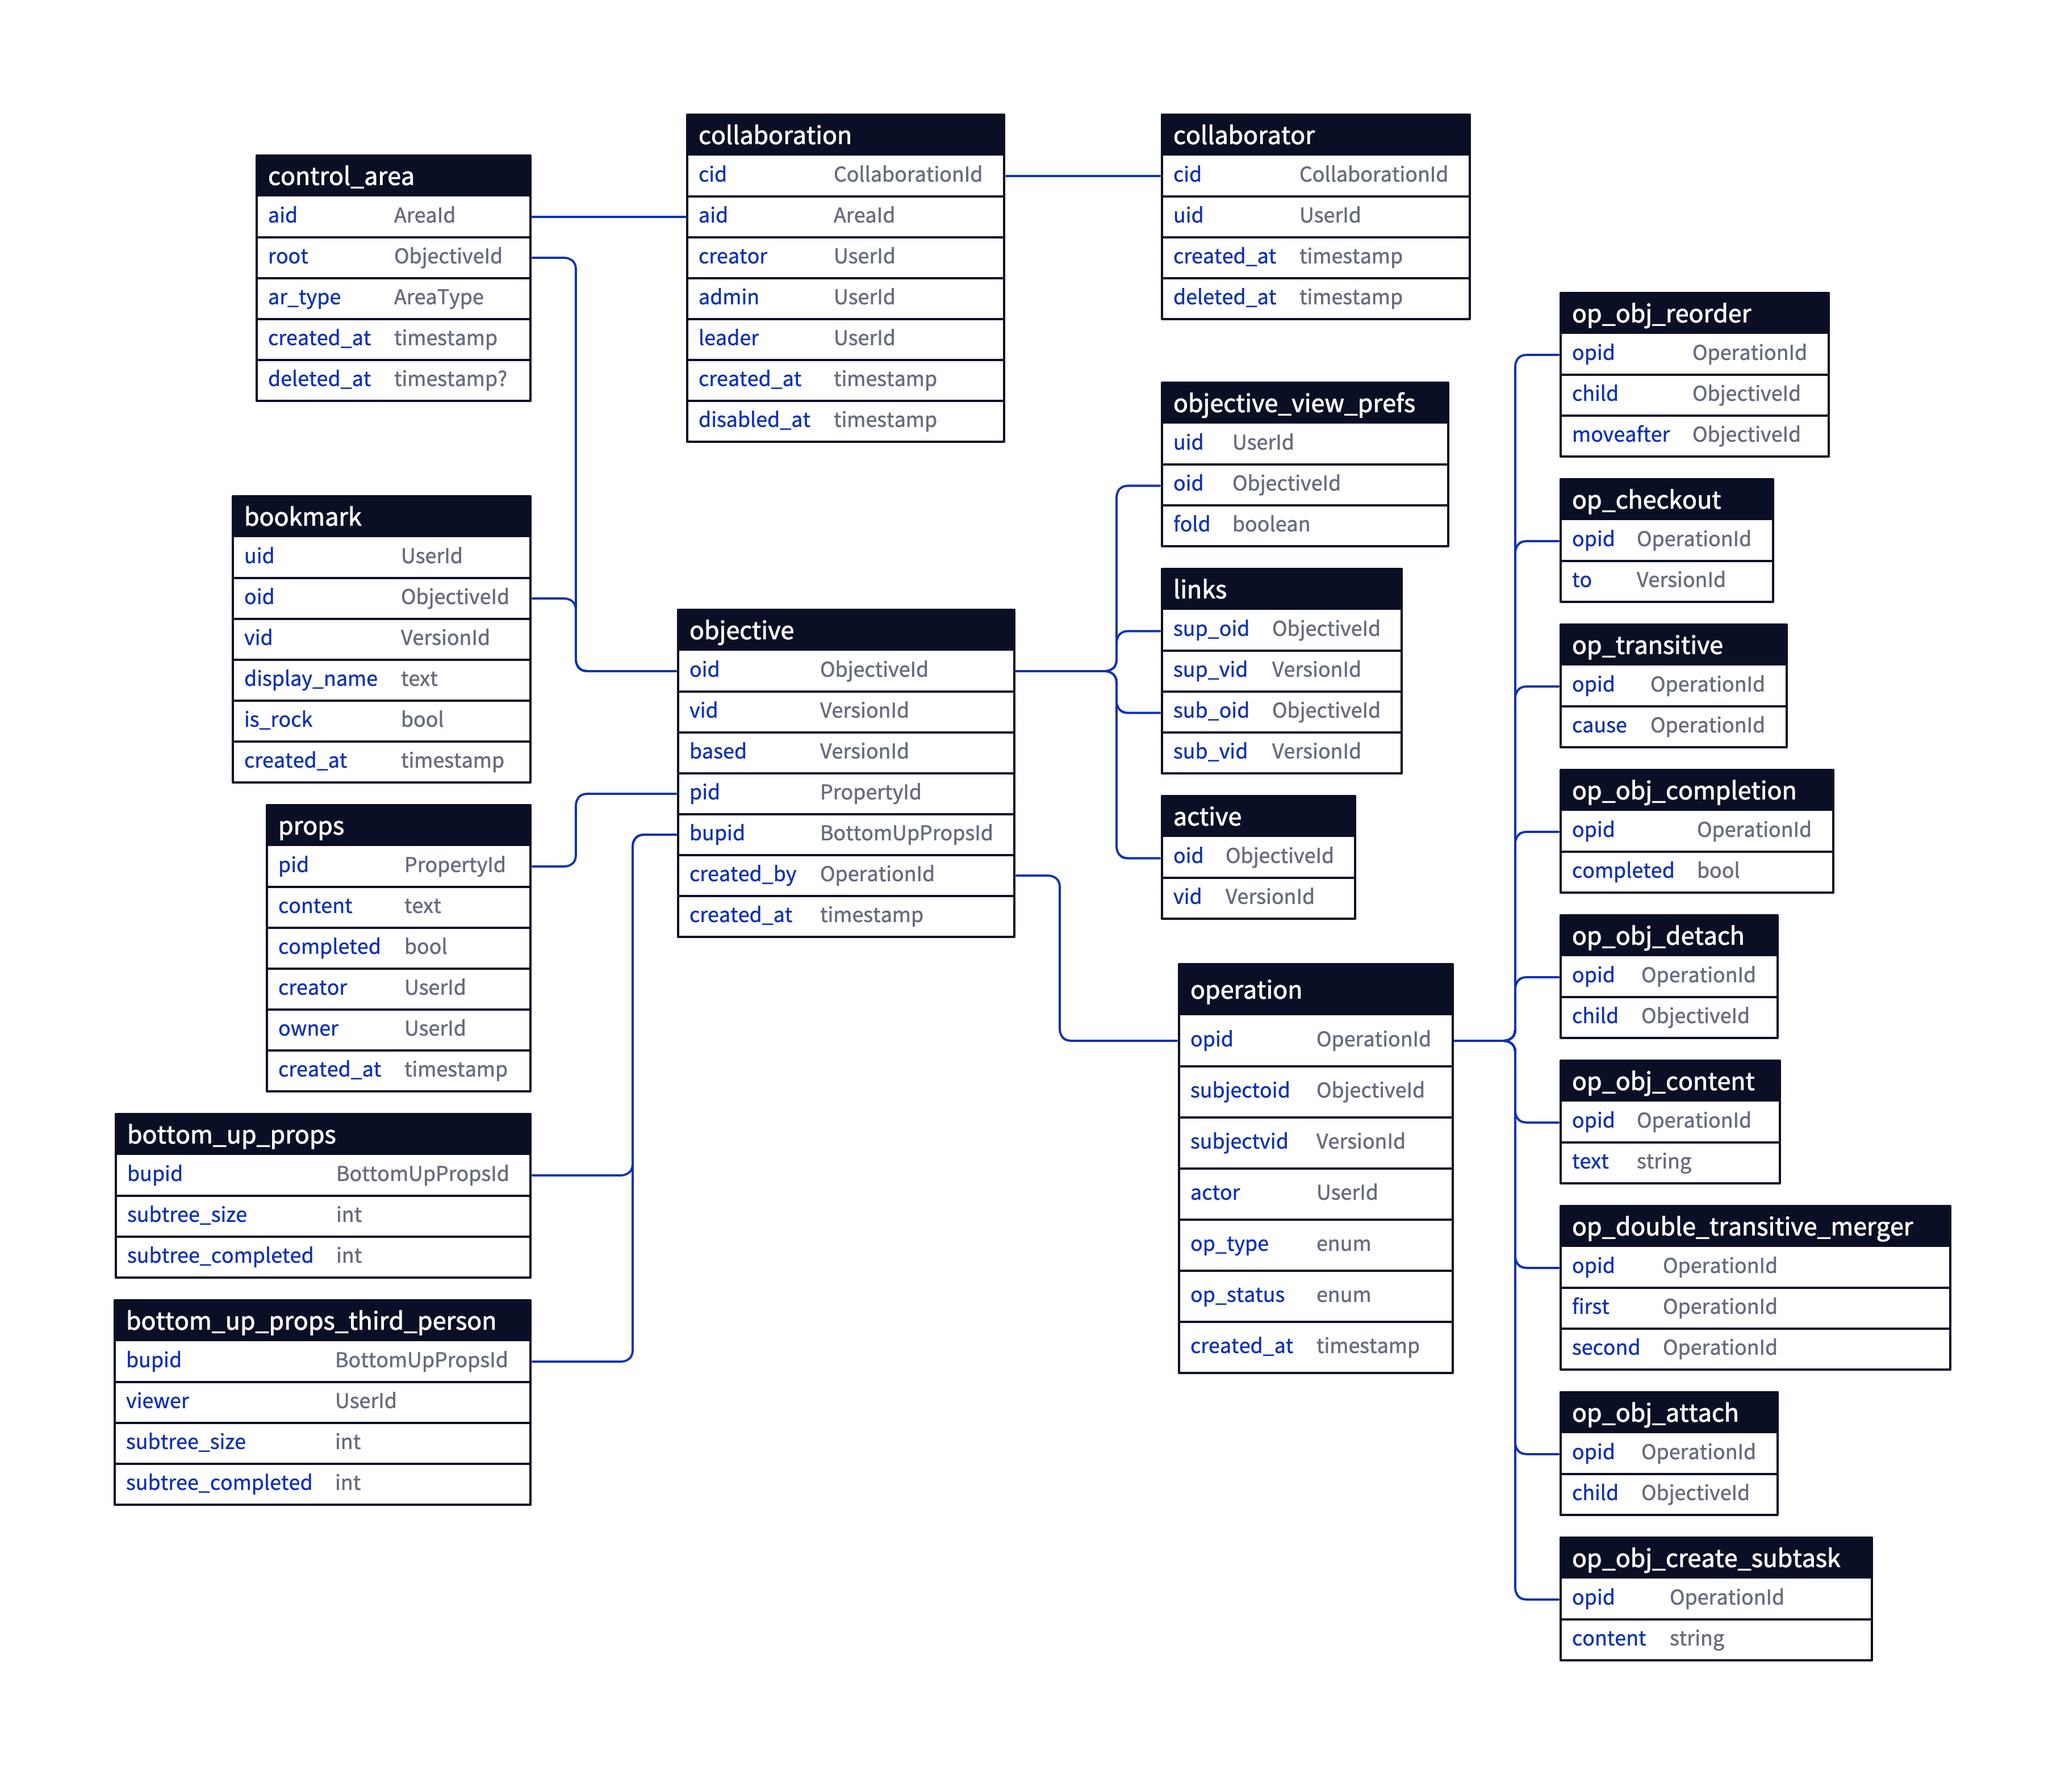
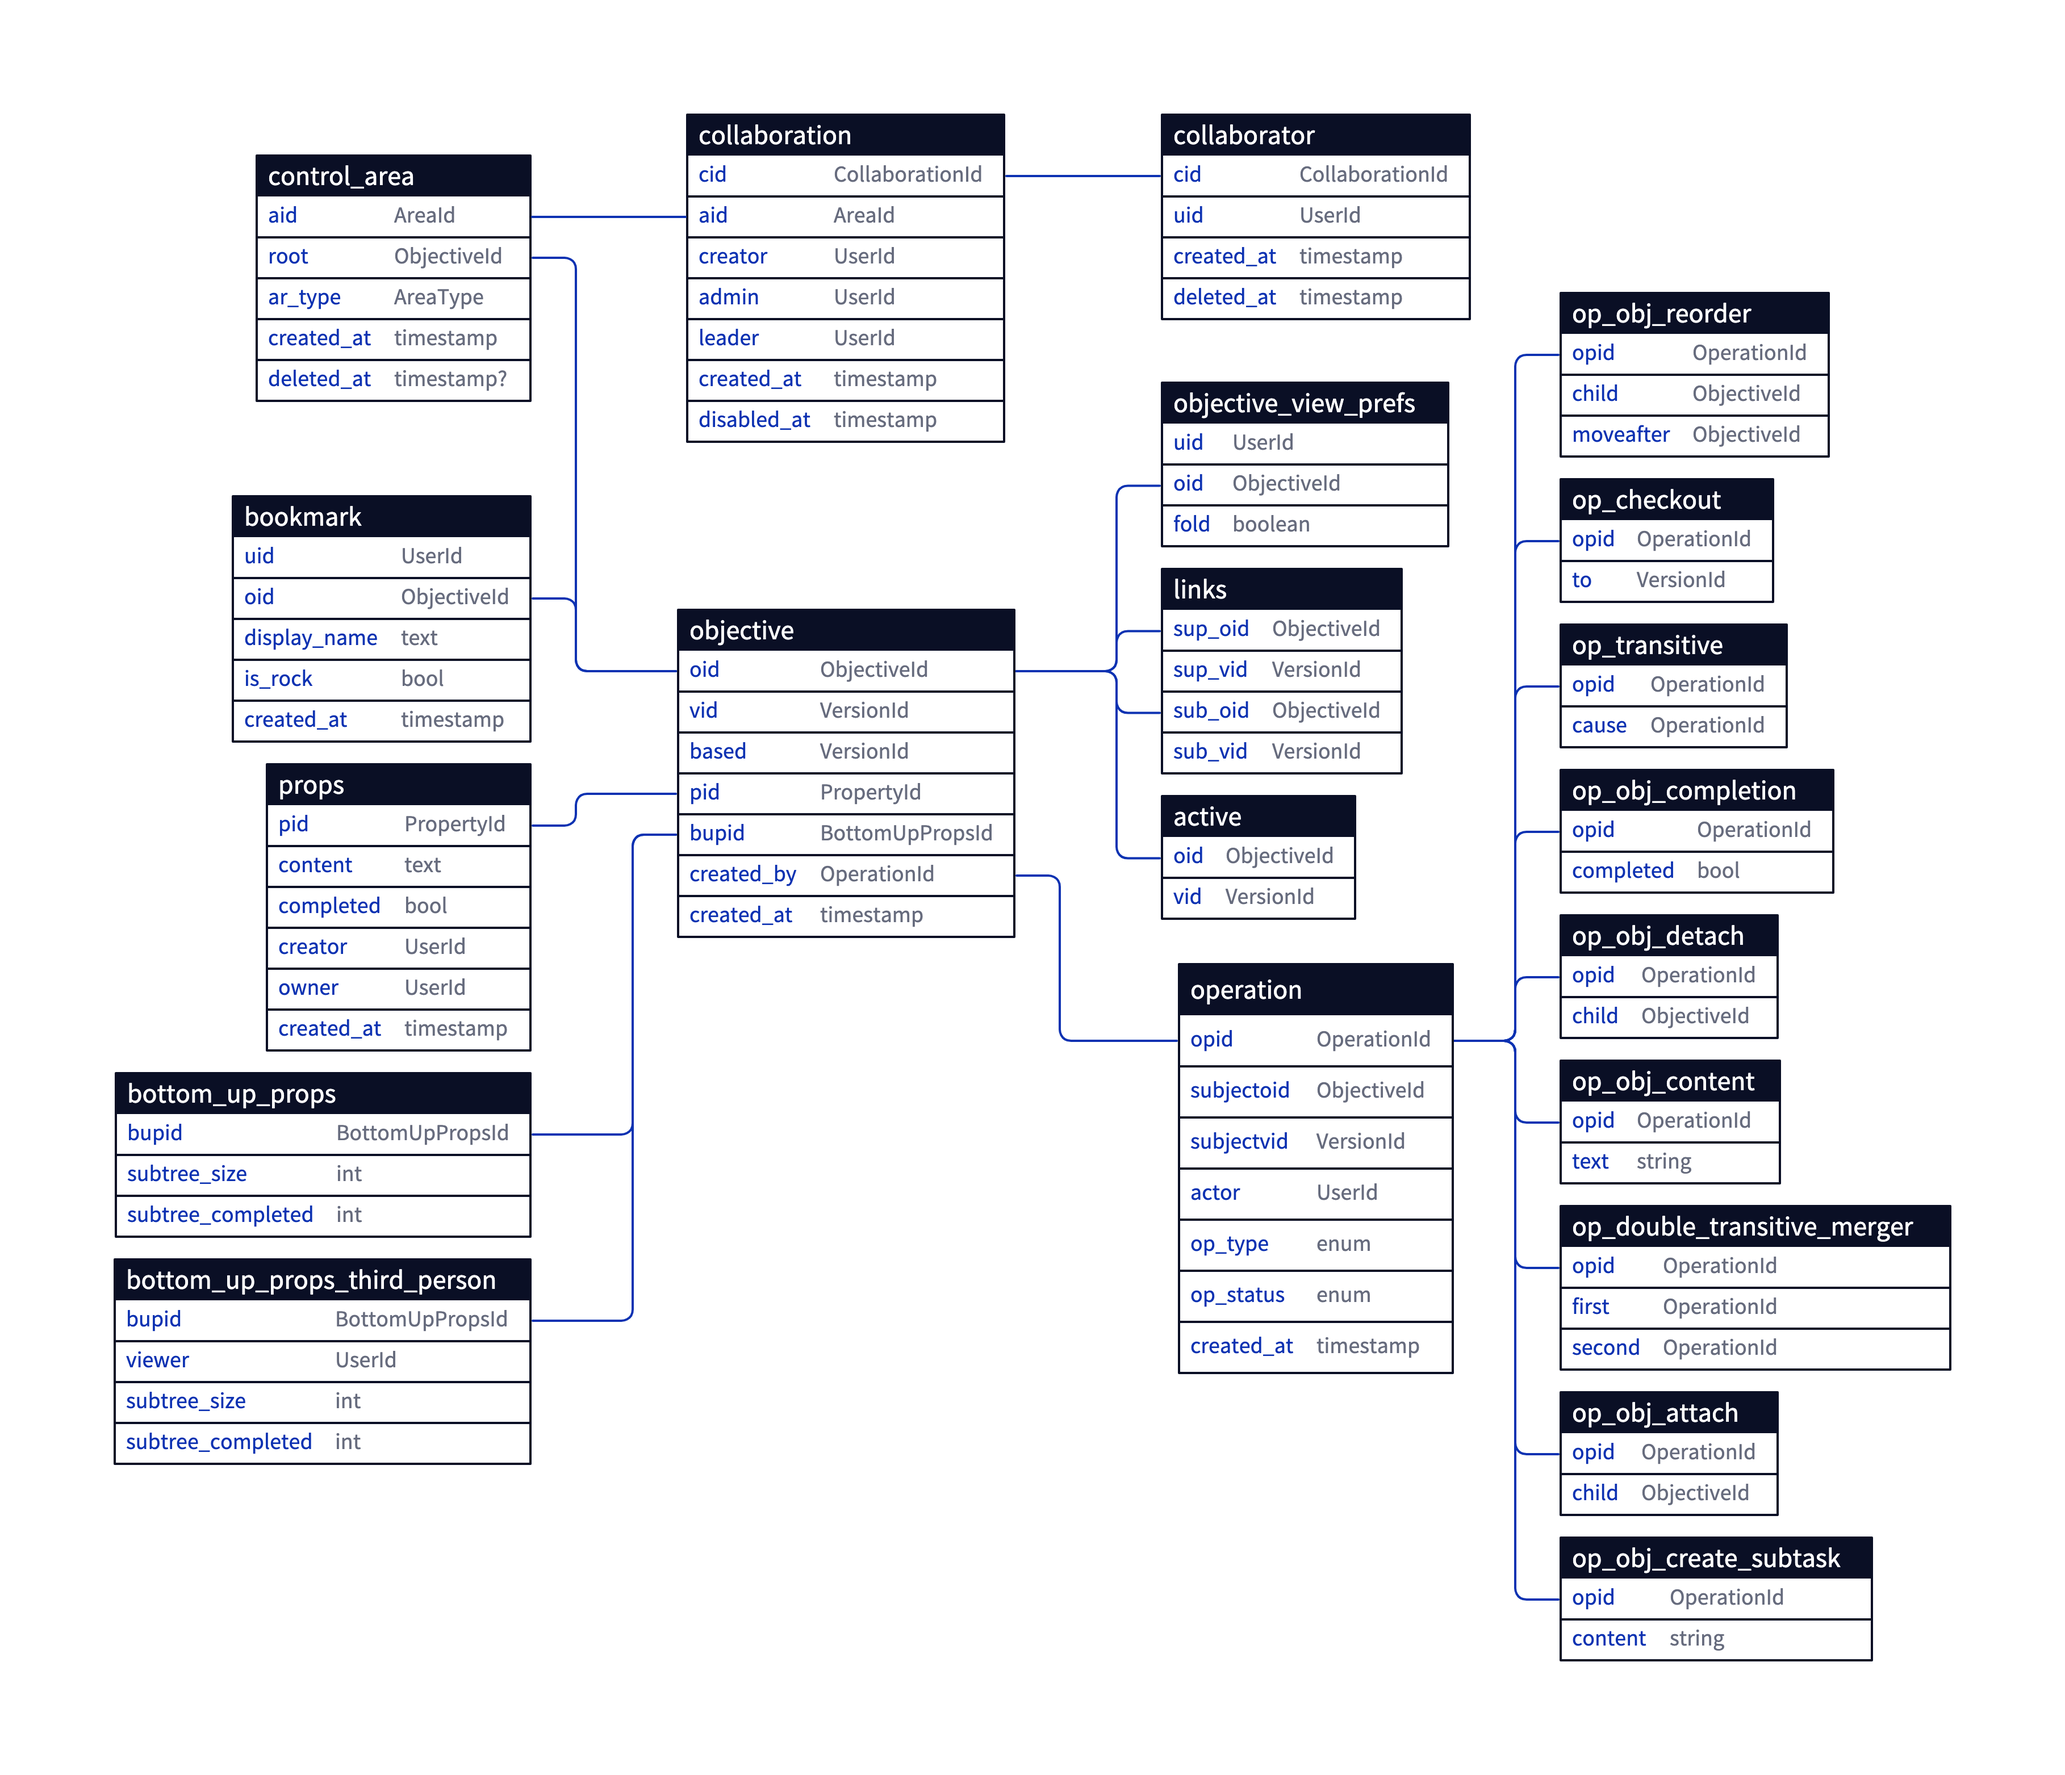
app/cmd/objectives: removes `vid` column from `bookmark` table to decouple logic of updating objectives from updating bookmark table

Changed region(s): [[0.0311, 0.3413, 0.2797, 0.8068], [0.0932, 0.8068, 0.1554, 0.8378]]

diff --git a/app/cmd/objectives/database/queries.bookmark.sql.sqlc.go b/app/cmd/objectives/database/queries.bookmark.sql.sqlc.go
@@ -12,16 +12,15 @@ import (
 )
 
 const insertBookmark = `-- name: InsertBookmark :one
-INSERT INTO "bookmark"("uid", "oid", "vid", "title", "is_rock")
-    VALUES ($1, $2, $3, $4, $5)
+INSERT INTO "bookmark"("uid", "oid", "title", "is_rock")
+    VALUES ($1, $2, $3, $4)
 RETURNING
-    bid, uid, oid, vid, title, is_rock, created_at
+    bid, uid, oid, title, is_rock, created_at
 `
 
 type InsertBookmarkParams struct {
 	Uid    columns.UserId
 	Oid    columns.ObjectiveId
-	Vid    columns.VersionId
 	Title  string
 	IsRock bool
 }
@@ -30,7 +29,6 @@ func (q *Queries) InsertBookmark(ctx context.Context, arg InsertBookmarkParams) 
 	row := q.db.QueryRow(ctx, insertBookmark,
 		arg.Uid,
 		arg.Oid,
-		arg.Vid,
 		arg.Title,
 		arg.IsRock,
 	)
@@ -39,7 +37,6 @@ func (q *Queries) InsertBookmark(ctx context.Context, arg InsertBookmarkParams) 
 		&i.Bid,
 		&i.Uid,
 		&i.Oid,
-		&i.Vid,
 		&i.Title,
 		&i.IsRock,
 		&i.CreatedAt,
@@ -49,7 +46,7 @@ func (q *Queries) InsertBookmark(ctx context.Context, arg InsertBookmarkParams) 
 
 const selectBookmarks = `-- name: SelectBookmarks :many
 SELECT
-    bid, uid, oid, vid, title, is_rock, created_at
+    bid, uid, oid, title, is_rock, created_at
 FROM
     "bookmark"
 WHERE
@@ -70,7 +67,6 @@ func (q *Queries) SelectBookmarks(ctx context.Context, uid columns.UserId) ([]Bo
 			&i.Bid,
 			&i.Uid,
 			&i.Oid,
-			&i.Vid,
 			&i.Title,
 			&i.IsRock,
 			&i.CreatedAt,

diff --git a/app/cmd/objectives/app/bookmarks.go b/app/cmd/objectives/app/bookmarks.go
@@ -19,7 +19,6 @@ func (a *App) AddBookmark(ctx context.Context, params AddBookmarkParams) error {
 	_, err := a.queries.InsertBookmark(ctx, database.InsertBookmarkParams{
 		Uid:    params.Actor,
 		Oid:    params.Subject.Oid,
-		Vid:    params.Subject.Vid,
 		Title:  params.BookmarkName,
 		IsRock: false,
 	})
@@ -46,7 +45,6 @@ func (a *App) ListBookmarks(ctx context.Context, params ListBookmarksParams) ([]
 			Bid:       b.Bid,
 			Title:     b.Title,
 			Oid:       b.Oid,
-			Vid:       b.Vid,
 			IsRock:    b.IsRock,
 			CreatedAt: b.CreatedAt.Time,
 		})

diff --git a/app/cmd/objectives/app/app_test.go b/app/cmd/objectives/app/app_test.go
@@ -52,12 +52,17 @@ func TestApp(t *testing.T) {
 		found := false
 		for _, b := range bs {
 			if b.IsRock {
-				rock = models.Ovid{b.Oid, b.Vid}
+				rock = models.Ovid{Oid: b.Oid}
 				found = true
 			}
 		}
 		if !found {
 			t.Fatal(fmt.Errorf("assert, expected rock to be found: %v", bs))
+		}
+
+		rock.Vid, err = a.GetActiveVersion(ctx, rock.Oid)
+		if err != nil {
+			t.Fatal(fmt.Errorf("act, GetActiveVersion: %w", err))
 		}
 	})
 

diff --git a/app/cmd/objectives/app/activeversion.go b/app/cmd/objectives/app/activeversion.go
@@ -1,0 +1,15 @@
+package app
+
+import (
+	"context"
+	"fmt"
+	"logbook/models/columns"
+)
+
+func (a *App) GetActiveVersion(ctx context.Context, subject columns.ObjectiveId) (columns.VersionId, error) {
+	act, err := a.queries.SelectActive(ctx, subject)
+	if err != nil {
+		return columns.ZeroVersionId, fmt.Errorf("SelectActive: %w", err)
+	}
+	return act.Vid, nil
+}

diff --git a/app/models/owners/objectives.go b/app/models/owners/objectives.go
@@ -10,7 +10,6 @@ type Bookmark struct {
 	Bid       columns.BookmarkId  `json:"bid"`
 	Title     string              `json:"title"`
 	Oid       columns.ObjectiveId `json:"oid"`
-	Vid       columns.VersionId   `json:"vid"`
 	IsRock    bool                `json:"is_rock"`
 	CreatedAt time.Time           `json:"created_at"`
 }

diff --git a/app/cmd/objectives/app/rock.go b/app/cmd/objectives/app/rock.go
@@ -38,7 +38,6 @@ func (a *App) RockCreate(ctx context.Context, uid columns.UserId) error {
 	_, err = a.queries.InsertBookmark(ctx, database.InsertBookmarkParams{
 		Uid:    uid,
 		Oid:    obj.Oid,
-		Vid:    obj.Vid,
 		Title:  "",
 		IsRock: true,
 	})

diff --git a/app/cmd/objectives/database/models.sqlc.go b/app/cmd/objectives/database/models.sqlc.go
@@ -157,7 +157,6 @@ type Bookmark struct {
 	Bid       columns.BookmarkId
 	Uid       columns.UserId
 	Oid       columns.ObjectiveId
-	Vid       columns.VersionId
 	Title     string
 	IsRock    bool
 	CreatedAt pgtype.Timestamp
